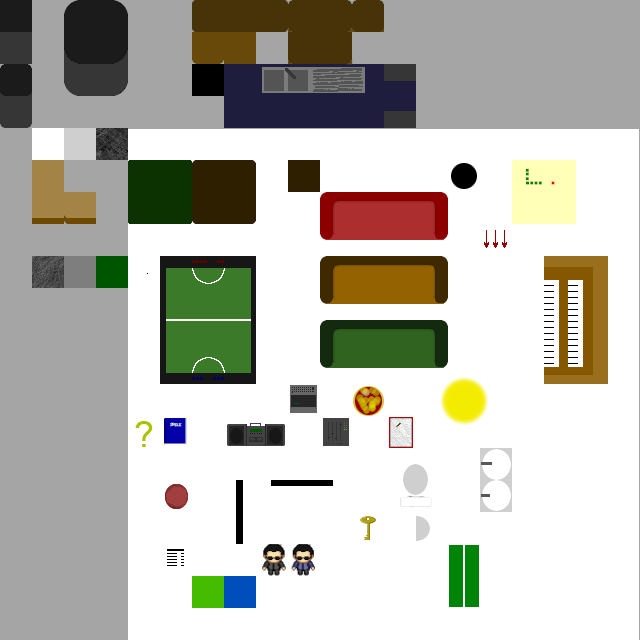
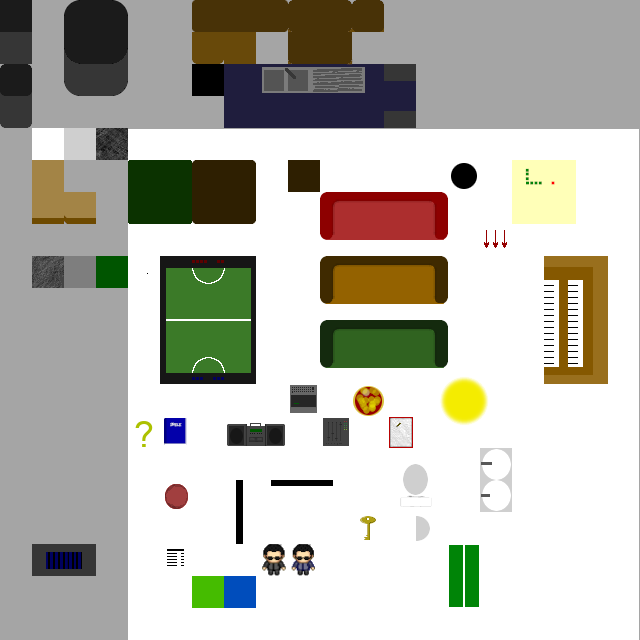
new file:   hell.json 	modified:   map.json 	modified:   napoli.json 	modified:   src/assets/Bvch_set.png 	modified:   src/index.ts

Changed region(s): [[0.0312, 0.8438, 0.1562, 0.9062]]

diff --git a/src/index.ts b/src/index.ts
@@ -18,9 +18,18 @@ WA.room.hideLayer("light");
 var bier = 0;
 var pfeffi = 0;
 var mate = 0;
-var trinkgehalt="data:text/html;charset=utf-8,<h1>Was du schon getrunken hast </h1><br> <h3> Bier: "+bier+"</h3><h3> Pfeffi: "+pfeffi+"</h3><h3> Mate: "+mate+"<h3>"
+var pizza=0;
+var trinkgehalt="data:text/html;charset=utf-8,<h1>Was du schon getrunken hast </h1><br> <h3> Bier: "+bier+"</h3><h3> Pfeffi: "+pfeffi+"</h3><h3> Mate: "+mate+"</h3><h3> Pizza:"+pizza+"</h3>"
 
-var menu = WA.ui.registerMenuCommand('Drinks',{iframe:trinkgehalt});
+var menu = WA.ui.registerMenuCommand('Intus',{iframe:trinkgehalt});
+
+
+function trinkgehalt_update(){
+    trinkgehalt="data:text/html;charset=utf-8,<h1> Was du schon getrunken hast </h1><br> <h3> Bier: "+bier+"</h3><h3> Pfeffi: "+pfeffi+"</h3><h3> Mate: "+mate+"</h3><h3> Pizza:"+pizza+"</h3>"
+    menu.remove()
+    menu = WA.ui.registerMenuCommand('Intus',{iframe:trinkgehalt});
+}
+
 //WA.room.setProperty("light","visible",0);
 
 WA.chat.onChatMessage((message => {
@@ -85,9 +94,7 @@ WA.room.onEnterZone('drink', () => {
             className: "primary",
             callback: (popup) => {
                 bier++;
-                trinkgehalt="data:text/html;charset=utf-8,<h1>  Was du schon getrunken hast </h1><br> <h3> Bier: "+bier+"</h3><h3> Pfeffi: "+pfeffi+"</h3><h3> Mate: "+mate+"<h3>"
-                menu.remove()
-                menu = WA.ui.registerMenuCommand('Drinks',{iframe:trinkgehalt});
+                trinkgehalt_update()
                 closePopUp()
             }
         },
@@ -96,9 +103,7 @@ WA.room.onEnterZone('drink', () => {
             className: "primary",
             callback: (popup) => {
                 pfeffi++;
-                trinkgehalt="data:text/html;charset=utf-8,<h1>  Was du schon getrunken hast </h1><br> <h3> Bier: "+bier+"</h3><h3> Pfeffi: "+pfeffi+"</h3><h3> Mate: "+mate+"<h3>"
-                menu.remove()
-                menu = WA.ui.registerMenuCommand('Drinks',{iframe:trinkgehalt});
+                trinkgehalt_update()
                 closePopUp()
 
             }
@@ -109,9 +114,7 @@ WA.room.onEnterZone('drink', () => {
             className: "primary",
             callback: (popup) => {
                 mate++;
-                trinkgehalt="data:text/html;charset=utf-8,<h1> Was du schon getrunken hast </h1><br> <h3> Bier: "+bier+"</h3><h3> Pfeffi: "+pfeffi+"</h3><h3> Mate: "+mate+"<h3>"
-                menu.remove()
-                menu = WA.ui.registerMenuCommand('Drinks',{iframe:trinkgehalt});
+                trinkgehalt_update()
                 closePopUp()
 
             }
@@ -128,6 +131,29 @@ WA.room.onEnterZone('drink', () => {
 
 WA.room.onLeaveZone('drink', closePopUp)
 
+WA.room.onEnterZone('pizza', () => {
+    currentPopup = WA.ui.openPopup("pizzaMenu", "welche Pizza willst du?", [
+        {
+            label: "mit Knoblauch",
+            className: "primary",
+            callback: (popup) => {
+                pizza++;
+                trinkgehalt_update()
+                closePopUp()
+            }
+        },
+        {
+            label: "mit Annanas",
+            className: "primary",
+            callback: (popup) => {
+                WA.nav.goToRoom("hell.json")
+
+            }
+
+        }
+    ]);
+})
+WA.room.onLeaveZone('pizza', closePopUp)
 
 
 
